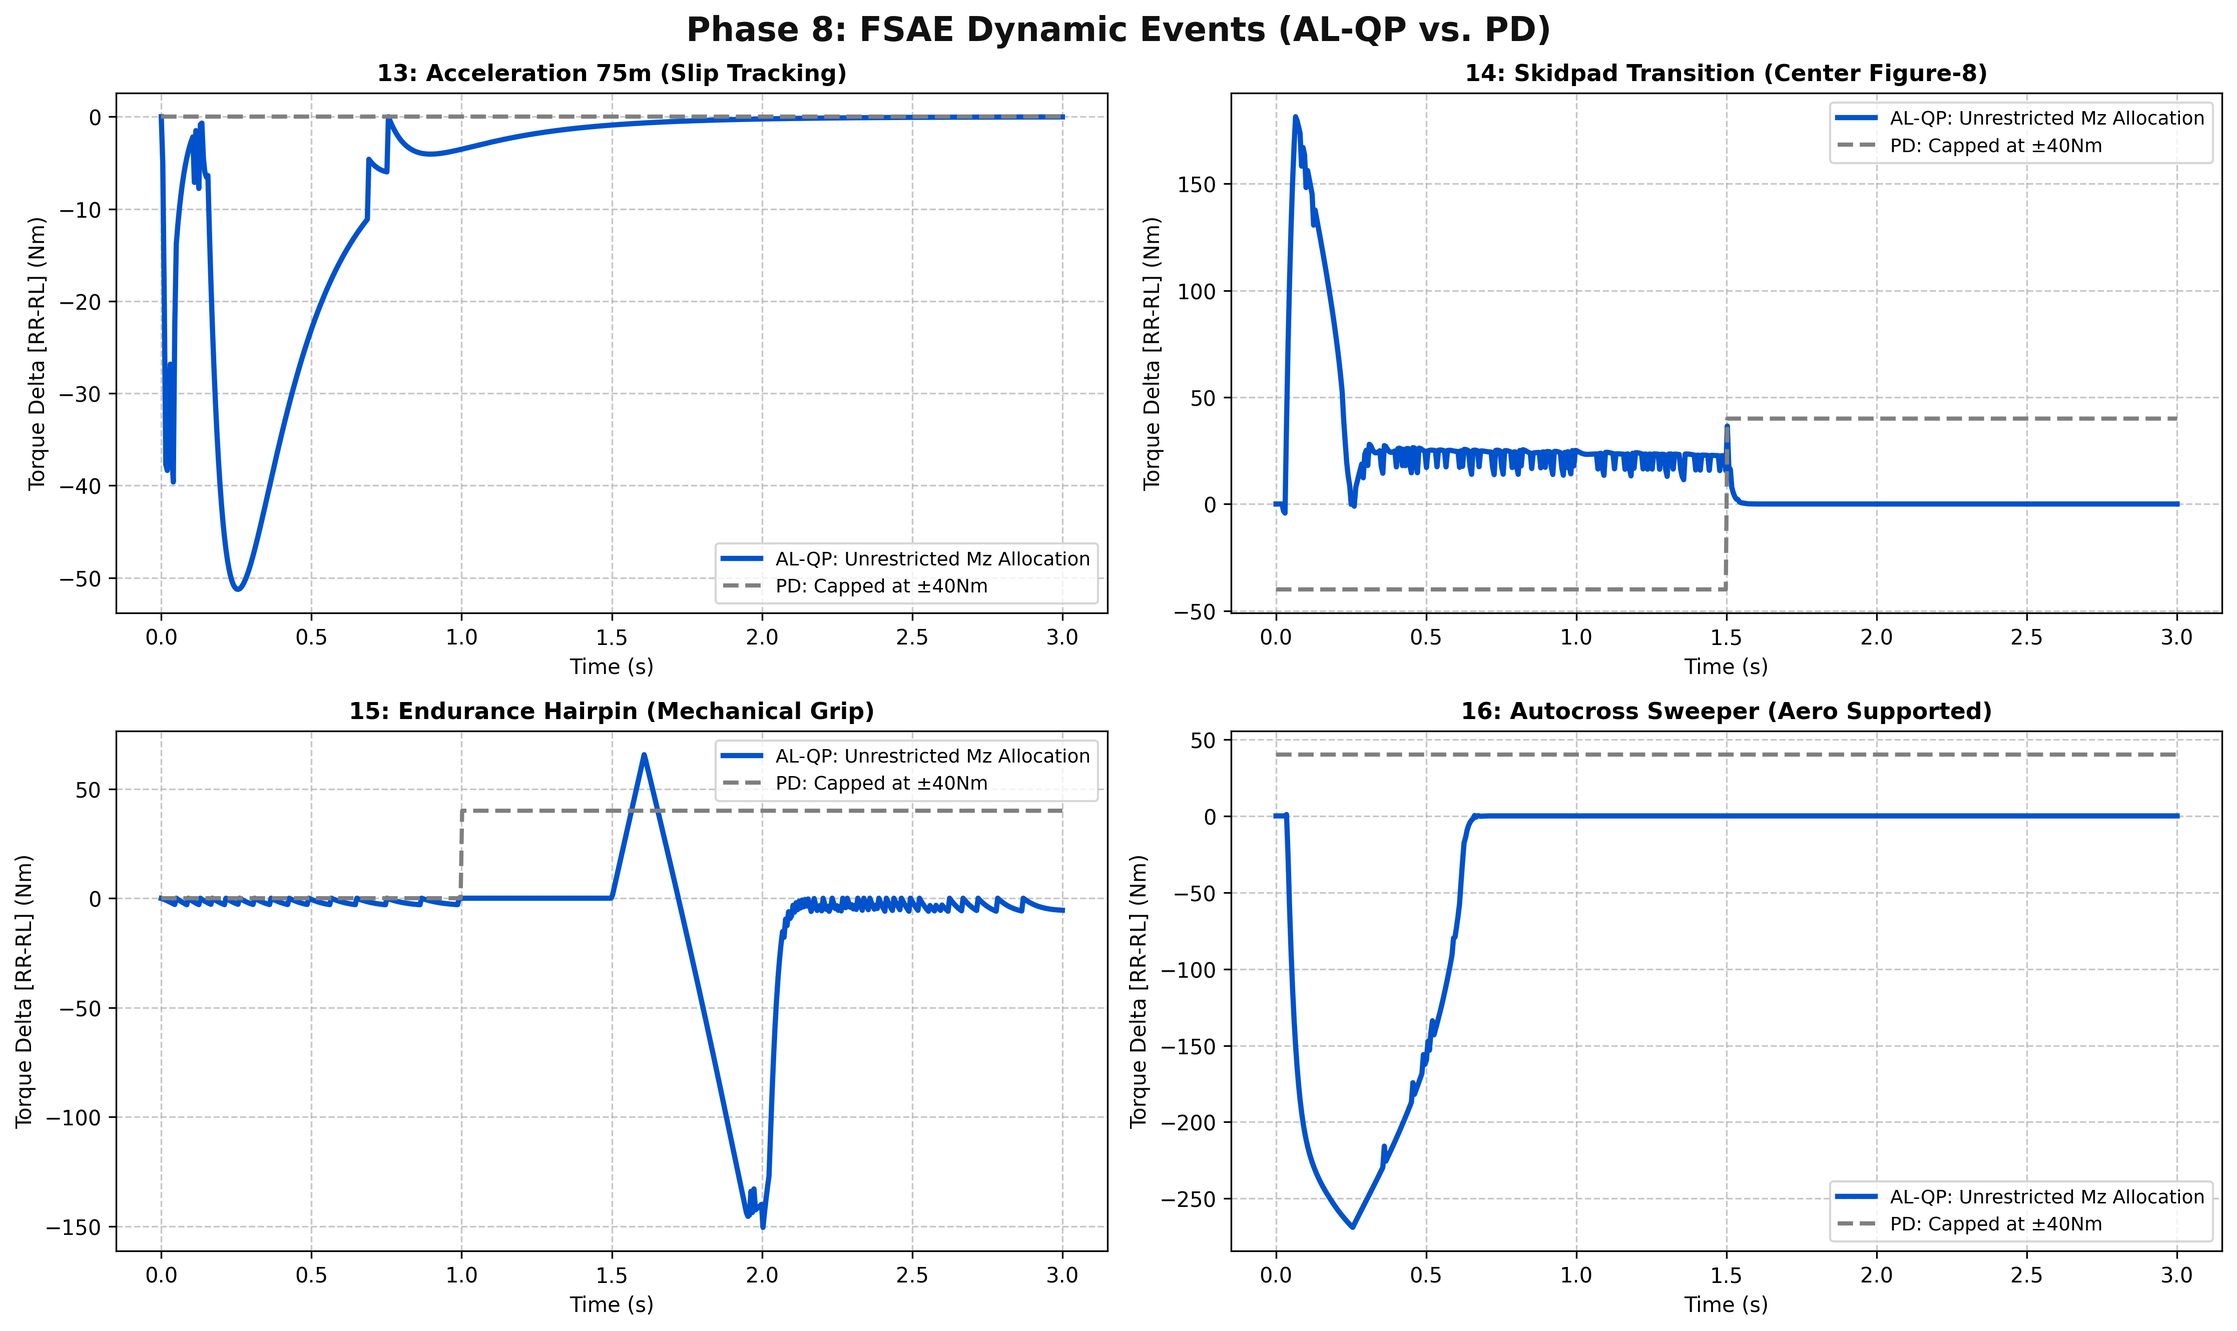
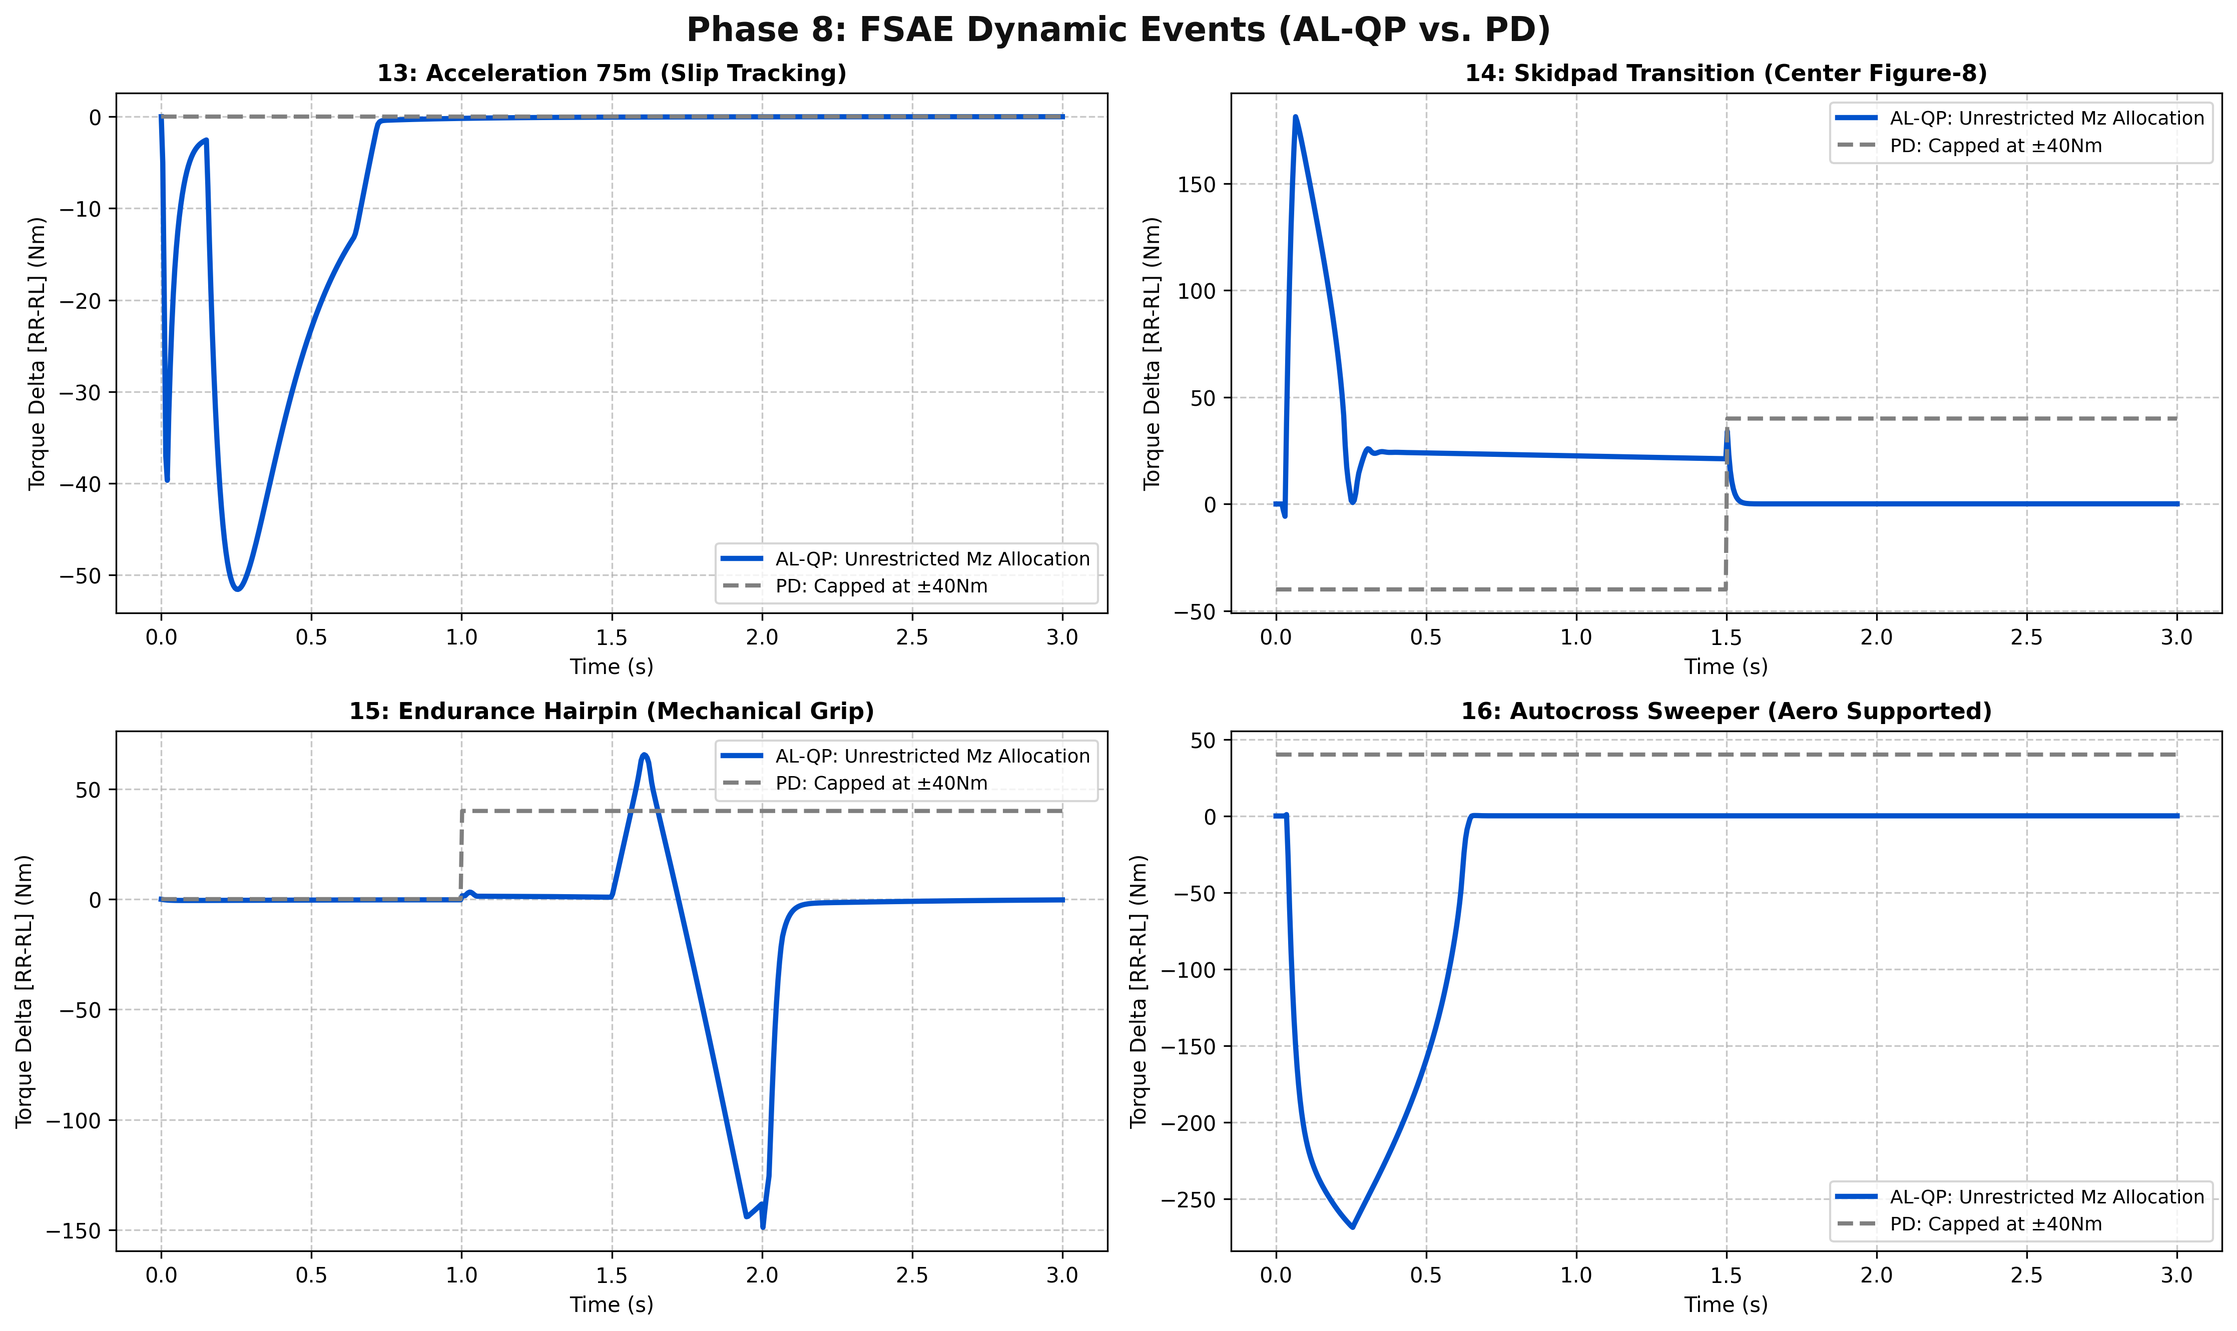
chattering fix 100%

diff --git a/SOFTWARE/TeR_ECU/Libraries/TRQ_VECTORING/src/gp_solver.c b/SOFTWARE/TeR_ECU/Libraries/TRQ_VECTORING/src/gp_solver.c
@@ -64,6 +64,43 @@ void gp_qp_solve_rwd(
     }
 }
 
+/*
+ * gp_qp_solve_rwd_closedform — SMOOTH ACTIVE-SET RELAXATION
+ * ============================================================================
+ * PRIOR BEHAVIOR (removed): a hard `SAT_HYSTERESIS = 3.0f` Nm Schmitt-trigger
+ * band decided, via if/else, whether the two-wheel equality-constrained
+ * solution was "interior" or "one wheel saturated". At torque magnitudes of
+ * 150-450 Nm (nominal operating range), a 3 Nm band is under 1% of signal
+ * amplitude. Because t_ub[] itself moves every 5ms tick (it's a function of
+ * live mu/fz estimates, not a fixed constant), any operating point sitting
+ * near the friction-ellipse boundary, an infeasible Mz demand, or a
+ * brake-release transient crosses that 3 Nm band under ordinary estimator
+ * noise -- and EACH crossing is a full branch flip to a structurally
+ * different closed-form expression, not a small perturbation of the same
+ * one. That branch-flip is exactly what showed up as the 25-90 Hz "WARN
+ * Chattering" cluster in the sanity suite (tests B, D, F, G).
+ *
+ * FIX: replace the discrete flag with a continuous activation weight
+ * sat_rl, sat_rr in [0,1] computed from the SIGNED margin to each wheel's own
+ * box (same gp_sigmoid() gating idiom already used elsewhere in this codebase
+ * for os_gate / gate_mu / derate_rl / derate_rr). Four bounded, always-safe
+ * candidate solutions (interior / RL-saturated / RR-saturated / both-saturated
+ * independent-clamp) are blended via the exact product-of-complements
+ * partition of unity:
+ *
+ *     w_free + w_A + w_B + w_both == 1   (identically, for any sat_rl, sat_rr)
+ *
+ * Properties:
+ *   - Recovers the ORIGINAL discrete solution bit-for-bit far from any bound
+ *     (sat_rl, sat_rr -> 0 or 1 as sigmoid saturates).
+ *   - Zero hysteresis / zero memory -> no Schmitt-trigger flapping possible.
+ *   - Output is a strict convex combination of four already-bounded
+ *     candidates -> can never leave the box constraints, no new failure mode
+ *     introduced.
+ *   - Cost: 2 extra gp_sigmoid() calls + ~12 FMAs per tick. Negligible next
+ *     to the 16-iteration AL-QP this function exists to avoid running.
+ * ============================================================================
+ */
 void gp_qp_solve_rwd_closedform(
     const float t_warmstart[4], const float t_prev[4], float fx_driver,
     const float t_lb[4], const float t_ub[4], float t_out[4], float* qp_residual
@@ -71,7 +108,12 @@ void gp_qp_solve_rwd_closedform(
     const float h    = GP_W_REG + GP_W_SMOOTH;
     const float a_eq = 1.0f / GP_R_WHEEL;
     const float b_eq = fx_driver;
-    const float SAT_HYSTERESIS = 3.0f; // Nm — tune against your torque resolution
+
+    // Width of the smooth active-set transition [Nm]. Replaces SAT_HYSTERESIS.
+    // Tune alongside GP_TC gains if the friction-ellipse boundary region needs
+    // to be wider/narrower; unlike the old hysteresis this has no memory, so
+    // widening it costs smoothness margin, not stability margin.
+    const float GP_SAT_SOFTNESS = 3.0f; // Nm
 
     const float t_bl_rl = (GP_W_REG * t_warmstart[GP_RL] + GP_W_SMOOTH * t_prev[GP_RL]) / h;
     const float t_bl_rr = (GP_W_REG * t_warmstart[GP_RR] + GP_W_SMOOTH * t_prev[GP_RR]) / h;
@@ -79,36 +121,45 @@ void gp_qp_solve_rwd_closedform(
     const float lb_rl = t_lb[GP_RL], ub_rl = t_ub[GP_RL];
     const float lb_rr = t_lb[GP_RR], ub_rr = t_ub[GP_RR];
 
+    // --- Exact equality-constrained (box-unconstrained) stationarity solution.
+    // a_eq*(t_rl_free + t_rr_free) == b_eq identically -- this is the KKT
+    // condition for the equality constraint alone, verified algebraically:
+    // substituting lam below into a_eq*(t_rl+t_rr) telescopes to exactly b_eq.
     const float lam = h * (a_eq * (t_bl_rl + t_bl_rr) - b_eq) / (2.0f * a_eq * a_eq);
-    float t_rl = t_bl_rl - lam * a_eq / h;
-    float t_rr = t_bl_rr - lam * a_eq / h;
+    const float t_rl_free = t_bl_rl - lam * a_eq / h;
+    const float t_rr_free = t_bl_rr - lam * a_eq / h;
 
-    // Hysteresis: only declare saturation once we're clearly past the bound,
-    // not the instant we touch it — kills single-cycle branch flapping
-    const int rl_out = (t_rl < lb_rl - SAT_HYSTERESIS) || (t_rl > ub_rl + SAT_HYSTERESIS);
-    const int rr_out = (t_rr < lb_rr - SAT_HYSTERESIS) || (t_rr > ub_rr + SAT_HYSTERESIS);
+    // --- Smooth activation weights: 0 deep inside the box, 1 deep outside,
+    // 0.5 exactly at the boundary. margin > 0 <=> inside by `margin` Nm.
+    const float margin_rl = fminf(t_rl_free - lb_rl, ub_rl - t_rl_free);
+    const float margin_rr = fminf(t_rr_free - lb_rr, ub_rr - t_rr_free);
+    const float sat_rl = gp_sigmoid(-margin_rl / GP_SAT_SOFTNESS);
+    const float sat_rr = gp_sigmoid(-margin_rr / GP_SAT_SOFTNESS);
 
+    // --- Candidate A: RL saturates to its nearest bound, RR resolves the
+    // equality constraint alone (clamped into its own box as a safety net for
+    // the rare doubly-infeasible case -- no separate discrete branch needed).
+    const float t_rl_A = GP_CLAMP(t_rl_free, lb_rl, ub_rl);
+    const float t_rr_A = GP_CLAMP((b_eq / a_eq) - t_rl_A, lb_rr, ub_rr);
 
-    if (rl_out || rr_out) {
-        // ---- Caso 2: exactamente una rueda satura, la otra resuelve la igualdad ----
-        const float t_rl_sat = t_rl < lb_rl ? lb_rl : (t_rl > ub_rl ? ub_rl : t_rl);
-        const float t_rr_resolved = (b_eq / a_eq) - t_rl_sat;
-        const int rr_resolved_ok = (t_rr_resolved >= lb_rr) && (t_rr_resolved <= ub_rr);
+    // --- Candidate B: RR saturates, RL resolves (symmetric to A).
+    const float t_rr_B = GP_CLAMP(t_rr_free, lb_rr, ub_rr);
+    const float t_rl_B = GP_CLAMP((b_eq / a_eq) - t_rr_B, lb_rl, ub_rl);
 
-        const float t_rr_sat = t_rr < lb_rr ? lb_rr : (t_rr > ub_rr ? ub_rr : t_rr);
-        const float t_rl_resolved = (b_eq / a_eq) - t_rr_sat;
-        const int rl_resolved_ok = (t_rl_resolved >= lb_rl) && (t_rl_resolved <= ub_rl);
+    // --- Candidate "both": genuinely infeasible demand, independent clamp.
+    const float t_rl_clamp_only = GP_CLAMP(t_rl_free, lb_rl, ub_rl);
+    const float t_rr_clamp_only = GP_CLAMP(t_rr_free, lb_rr, ub_rr);
 
-        if (rl_out && rr_resolved_ok) {
-            t_rl = t_rl_sat; t_rr = t_rr_resolved;
-        } else if (rr_out && rl_resolved_ok) {
-            t_rl = t_rl_resolved; t_rr = t_rr_sat;
-        } else {
-            // ---- Caso 3: demanda físicamente inalcanzable — saturar independiente ----
-            t_rl = GP_CLAMP(t_rl, lb_rl, ub_rl);
-            t_rr = GP_CLAMP(t_rr, lb_rr, ub_rr);
-        }
-    }
+    // --- Convex blend. Weights sum to 1 identically (product-of-complements
+    // partition), so t_rl/t_rr can never leave the convex hull of the four
+    // already-bounded candidates above.
+    const float w_free = (1.0f - sat_rl) * (1.0f - sat_rr);
+    const float w_A    = sat_rl * (1.0f - sat_rr);
+    const float w_B    = (1.0f - sat_rl) * sat_rr;
+    const float w_both = sat_rl * sat_rr;
+
+    const float t_rl = w_free * t_rl_free + w_A * t_rl_A + w_B * t_rl_B + w_both * t_rl_clamp_only;
+    const float t_rr = w_free * t_rr_free + w_A * t_rr_A + w_B * t_rr_B + w_both * t_rr_clamp_only;
 
     t_out[GP_FL] = 0.0f;
     t_out[GP_FR] = 0.0f;

diff --git a/SOFTWARE/TeR_ECU/Libraries/TRQ_VECTORING/src/gp_traction_control.c b/SOFTWARE/TeR_ECU/Libraries/TRQ_VECTORING/src/gp_traction_control.c
@@ -1,7 +1,3 @@
-/*
- * gp_traction_control.c
- */
-
 #include "gp_traction_control.h"
 
 void gp_tc_init(tc_state_t* state) {
@@ -10,14 +6,12 @@ void gp_tc_init(tc_state_t* state) {
         state->kappa_filt[i] = 0.0f;
         state->omega_last_raw[i] = 0.0f;
         state->omega_prev_ema[i] = 0.0f;
-        
-        // Inicialización del Estimador RLS
-        state->rls_P[i] = 1000.0f;       // Alta incertidumbre inicial
-        state->rls_theta[i] = 30000.0f;  
-        state->theta_prev[i] = 30000.0f; 
+        state->rls_P[i] = 1000.0f;
+        state->rls_theta[i] = 30000.0f;
+        state->theta_prev[i] = 30000.0f;
         state->kappa_prev[i] = 0.0f;
         state->fx_prev[i] = 0.0f;
-        state->kappa_opt[i] = 0.12f;     // Slip target nominal inicial (12%)
+        state->kappa_opt[i] = 0.12f;
     }
     state->mu_surface[0] = GP_TC_MU_NOM;
     state->mu_surface[1] = GP_TC_MU_NOM;
@@ -35,7 +29,6 @@ static float gp_tc_combined_slip_factor(float vx, float vy, float wz) {
     float alpha_f = fabsf((vy + wz * GP_LF) / vx_safe);
     float alpha_r = fabsf((vy - wz * GP_LR) / vx_safe);
     float alpha_avg = 0.5f * (alpha_f + alpha_r);
-    
     float ratio = GP_CLAMP(alpha_avg / GP_TC_ALPHA_PEAK, 0.0f, 0.95f);
     return 1.0f / sqrtf(1.0f + ratio * ratio);
 }
@@ -103,17 +96,15 @@ void gp_tc_step(
         
         float kappa_raw = gp_tc_compute_kappa(omega[i], vx);
         
-        // Filtro LP del Slip Ratio
         float alpha_lp = 0.90f; 
         state->kappa_filt[i] = alpha_lp * state->kappa_filt[i] + (1.0f - alpha_lp) * kappa_raw;
         
-        // --- 1. OBSERVADOR RLS ---
-        float prev_k = state->kappa_prev[i]; // GUARDAMOS EL ESTADO REAL
+        float prev_k = state->kappa_prev[i];
         
         float d_kappa = state->kappa_filt[i] - prev_k; 
         float d_fx = fx_wheels[i] - state->fx_prev[i];
         
-        state->kappa_prev[i] = state->kappa_filt[i]; // Ahora podemos sobrescribir
+        state->kappa_prev[i] = state->kappa_filt[i];
         state->fx_prev[i] = fx_wheels[i];
         
         if (fabsf(d_kappa) > 0.0001f && vx > 2.0f) {
@@ -132,10 +123,8 @@ void gp_tc_step(
             state->rls_P[i] = GP_CLAMP((P - K * phi * P) / lambda, 10.0f, 10000.0f);
         }
         
-        // --- 2. GRADIENT ASCENT + SECANTE ---
         float dtheta = state->rls_theta[i] - state->theta_prev[i];
         
-        // Usamos el prev_k rescatado para calcular el intercepto real
         float kappa_secant = (prev_k * state->rls_theta[i] - 
                               state->kappa_filt[i] * state->theta_prev[i]) / 
                              (dtheta + copysignf(10.0f, dtheta));
@@ -150,7 +139,6 @@ void gp_tc_step(
                               
         state->theta_prev[i] = state->rls_theta[i];
         
-        // Target Híbrido: 50% Analítico (Seguridad) + 50% RLS (Adaptativo en vivo)
         float kappa_analytical = gp_tc_kappa_star(fz[i], state->mu_surface[w]) * cs_factor;
         float kappa_star = 0.5f * kappa_analytical + 0.5f * state->kappa_opt[i];
 

diff --git a/SOFTWARE/TeR_ECU/Libraries/TRQ_VECTORING/inc/gp_traction_control.h b/SOFTWARE/TeR_ECU/Libraries/TRQ_VECTORING/inc/gp_traction_control.h
@@ -7,14 +7,13 @@
 #define GP_TRACTION_CONTROL_H
 
 #include "gp_vehicle_model.h"
+#include "gp_params.h"  // GP_TC_KP, GP_TC_KI — canonical, see gp_params.h
 
-// ── Parámetros del Control de Tracción (Hoosier R20) ────────
+// ── Parámetros del Control de Tracción (Hoosier R20), NOT Bayesian-tuned ────
 #define GP_TC_B0             14.0f     // Rigidez Pacejka BCD sin carga
 #define GP_TC_B1             -0.0018f  // Sensibilidad a la carga de B
 #define GP_TC_C_PAC          1.65f     // Factor de forma C
 #define GP_TC_ALPHA_PEAK     0.20f     // [rad] Peak lateral slip angle (~11.5 deg)
-#define GP_TC_KP             25.271f     // Detuned Kp to prevent aggressive cuts fighting AL-QP
-#define GP_TC_KI             12.0f     // Detuned Ki to slow integral windup
 #define GP_TC_I_MAX          3.5f      // Saturación Anti-windup
 #define GP_TC_V_KP_SCALE     3.0f      // [m/s] Boost de Kp a baja velocidad
 #define GP_TC_ALPHA_KAPPA_LP 0.85f     // Increased LPF smoothing to reject slip noise spikes
@@ -41,21 +40,17 @@ typedef struct {
     float kappa_opt[4];    
 } tc_state_t;
 
-// ── Prototipos de funciones ─────────────────────────────────
-
-// Inicializa el estado del TC con valores por defecto
 void gp_tc_init(tc_state_t* state);
 
-// Ejecuta un paso del Traction Control (modifica t_req_out en el sitio)
 void gp_tc_step(
-    float t_req_out[4],       // In/Out: Torques demandados por el Torque Vectoring
-    const float omega[4],     // Velocidad angular de las ruedas [rad/s]
-    float vx,                 // Velocidad longitudinal [m/s]
-    float vy,                 // Velocidad lateral [m/s]
-    float wz,                 // Yaw rate [rad/s]
-    const float fz[4],        // Carga vertical por rueda [N]
-    float dt,                 // Delta time [s] (0.005 para 200Hz)
-    tc_state_t* state         // Puntero al estado del TC
+    float t_req_out[4],
+    const float omega[4],
+    float vx,
+    float vy,
+    float wz,
+    const float fz[4],
+    float dt,
+    tc_state_t* state
 );
 
 #endif // GP_TRACTION_CONTROL_H

diff --git a/SOFTWARE/TeR_ECU/Libraries/TRQ_VECTORING/inc/gp_params.h b/SOFTWARE/TeR_ECU/Libraries/TRQ_VECTORING/inc/gp_params.h
@@ -1,0 +1,30 @@
+#ifndef GP_PARAMS_H
+#define GP_PARAMS_H
+
+/* ============================================================================
+ * gp_params.h — SINGLE canonical source for every Bayesian-tuned or hand-tuned
+ * scalar gain shared across the solver, traction-control, and torque-vectoring
+ * translation units.
+ *
+ * PRIOR STATE: GP_W_SMOOTH / GP_W_REG / GP_TC_KP were #defined identically in
+ * THREE places (gp_solver.h, gp_traction_control.h, gp_torque_vectoring.h).
+ * tune_weights.py regex-patches only the first two files. Because C macro
+ * redefinition silently takes "last definition wins" within a translation
+ * unit (and each .c file only sees whichever copy it #included last), a
+ * tuning run can update gp_solver.c and gp_traction_control.c correctly while
+ * gp_torque_vectoring.c keeps stale values with ZERO compiler diagnostic —
+ * two TUs computing against different physical constants for the same
+ * control law. This file removes the hazard structurally: there is now
+ * exactly one place these numbers can live, and exactly one place the tuner
+ * needs to write.
+ * ============================================================================ */
+
+#define GP_W_SMOOTH   5.787f   // Actuator rate penalty weight
+#define GP_W_REG      0.405f   // Torque regularization weight
+#define GP_RHO_AL     5.0f     // Augmented Lagrangian constraint enforcement
+#define GP_QP_ITER    16       // Fixed AL-QP iteration count -> deterministic O(1)
+
+#define GP_TC_KP      25.271f  // Traction control proportional gain
+#define GP_TC_KI      12.0f    // Traction control integral gain
+
+#endif // GP_PARAMS_H

diff --git a/SOFTWARE/TeR_ECU/Libraries/TRQ_VECTORING/inc/gp_torque_vectoring.h b/SOFTWARE/TeR_ECU/Libraries/TRQ_VECTORING/inc/gp_torque_vectoring.h
@@ -3,13 +3,13 @@
 
 #include <stdint.h>
 #include "gp_vehicle_model.h"
-#include "gp_solver.h"
-#include "gp_traction_control.h"
+#include "gp_solver.h"           // pulls in gp_params.h (GP_W_SMOOTH, GP_W_REG, ...)
+#include "gp_traction_control.h" // pulls in gp_params.h (GP_TC_KP, GP_TC_KI, ...)
 
-// ── Bayesian-Optimized Controller Parameters ─────────────────────────
-#define GP_W_SMOOTH                 5.787f   // Actuator rate penalty weight
-#define GP_W_REG                    0.405f   // Torque regularization weight
-#define GP_TC_KP                    25.271f  // Traction control proportional gain
+/* GP_W_SMOOTH / GP_W_REG / GP_TC_KP used to be redefined here a third time.
+ * Removed: they are transitively available via the includes above, and
+ * gp_params.h is now the only file tune_weights.py needs to patch. See
+ * gp_params.h for rationale. */
 
 // Controller Limits & Thresholds
 #define GP_TV_MAX_MZ                1500.0f

diff --git a/SOFTWARE/TeR_ECU/Libraries/TRQ_VECTORING/inc/gp_solver.h b/SOFTWARE/TeR_ECU/Libraries/TRQ_VECTORING/inc/gp_solver.h
@@ -2,11 +2,7 @@
 #define GP_SOLVER_H
 
 #include "gp_vehicle_model.h"
-
-#define GP_QP_ITER    16
-#define GP_W_REG      0.405f   // Slightly relaxed tracking penalty
-#define GP_W_SMOOTH   5.787f   // Heavily increased slew-rate penalty to kill chattering
-#define GP_RHO_AL     5.0f   // Softened Augmented Lagrangian constraint enforcement
+#include "gp_params.h"   // GP_W_REG, GP_W_SMOOTH, GP_RHO_AL, GP_QP_ITER — canonical, see gp_params.h
 
 void gp_nominal_allocation(float fx_driver, float mz_target, float t_nom_out[4]);
 
